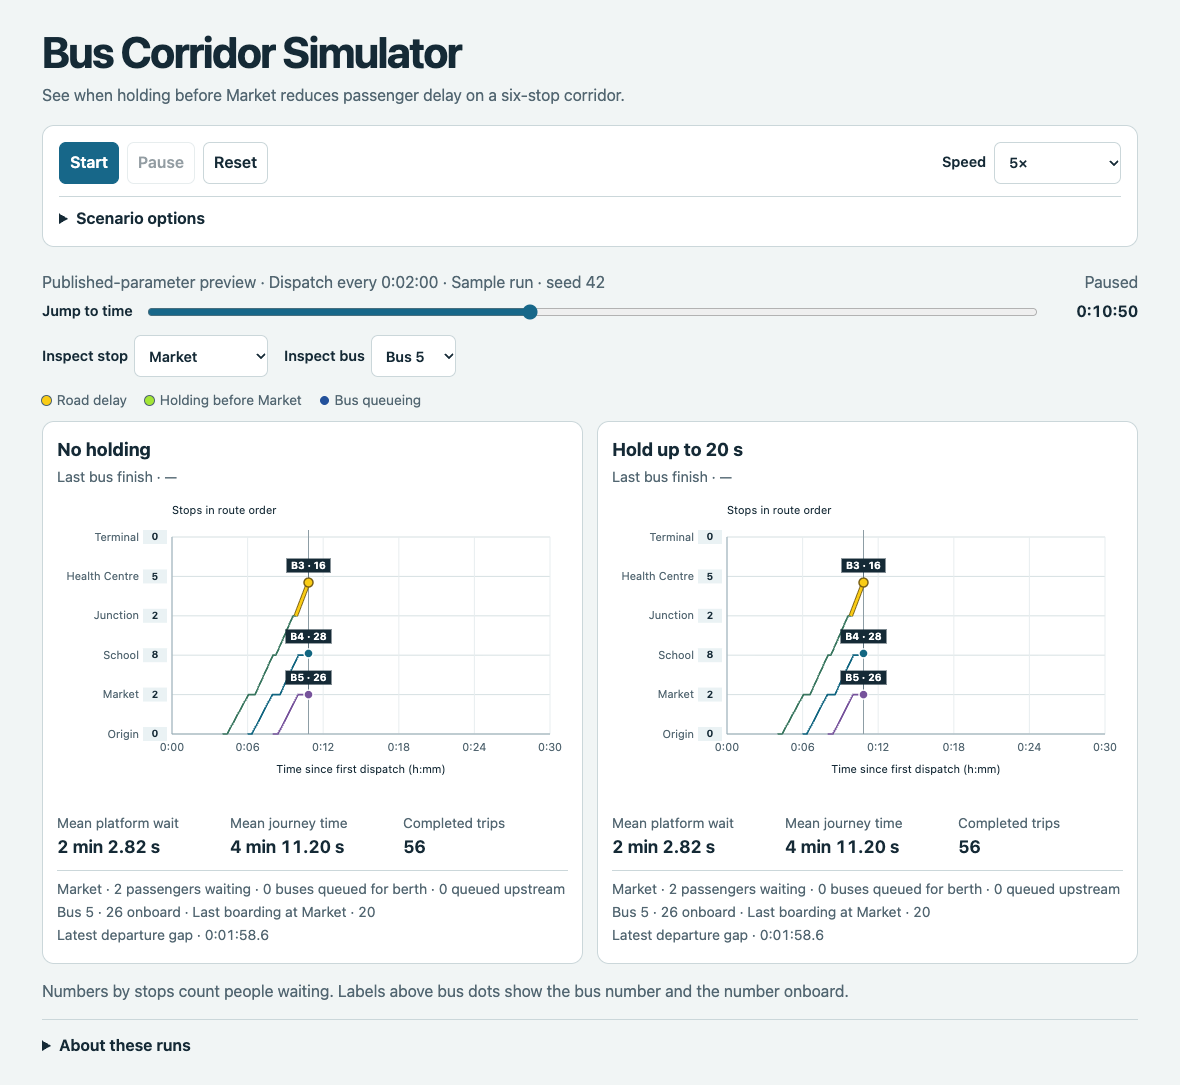
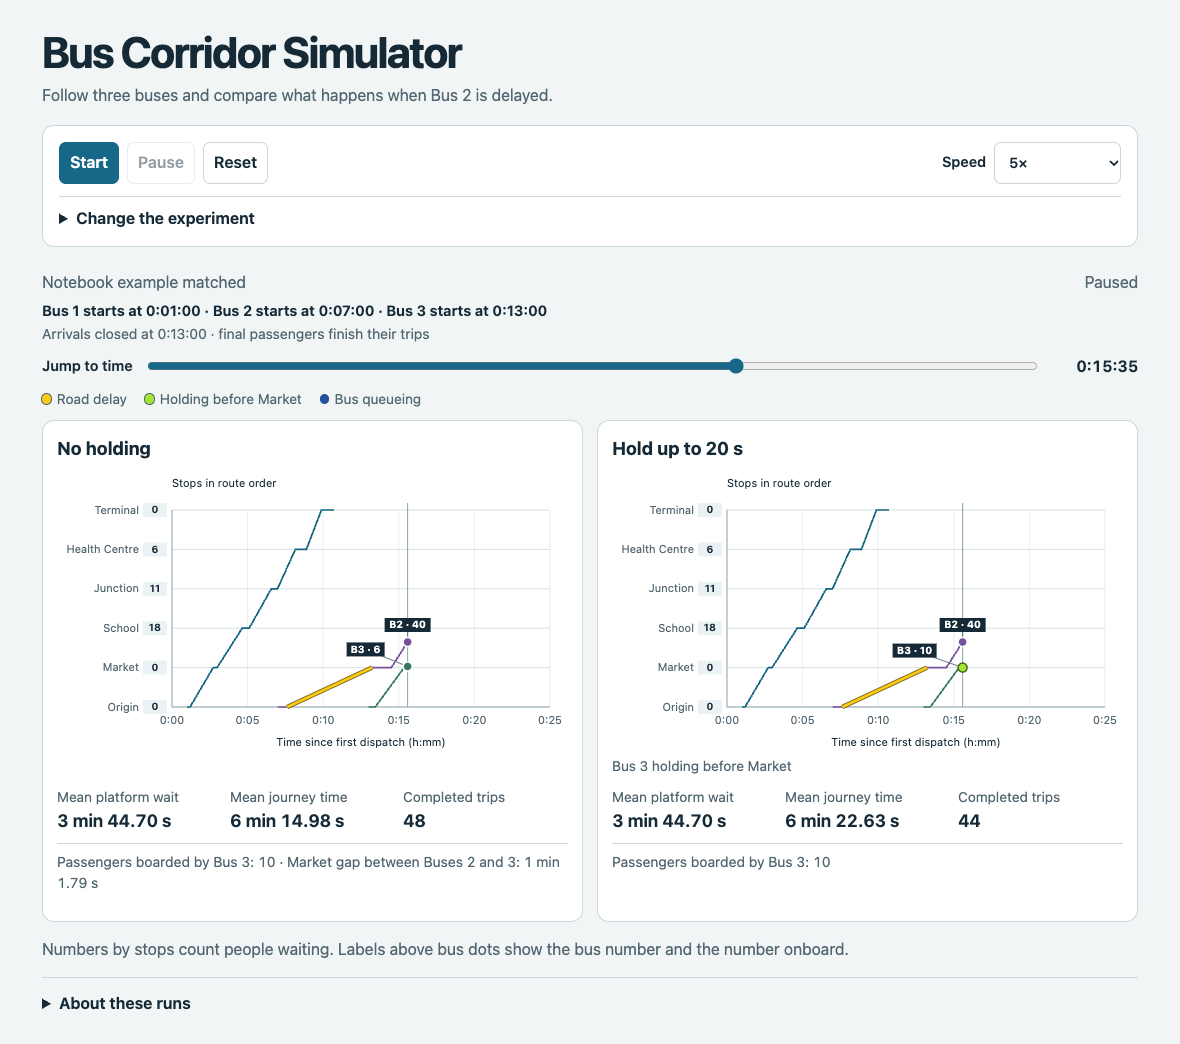
docs(demo): explain the three departures and boarding window

diff --git a/USER_GUIDE.md b/USER_GUIDE.md
@@ -1,33 +1,22 @@
 # User guide
 
-Open [the live demo](https://amri0faz31.github.io/bus-corridor-simulator/) or open `docs/index.html` locally. **Start**, **Pause** and **Reset** run both panels on one clock. **Jump to time** lets you inspect a particular event. The clock uses hours, minutes and seconds. Choose **1× · real time** to advance one simulated second per real second.
+[Open the live demo](https://amri0faz31.github.io/bus-corridor-simulator/) or open `docs/index.html` directly. The default example compares **No holding** and **Hold up to 20 s** for the same three buses and the same passengers and road times.
 
-## Compare no holding and capped holding
+## Start with the three-bus example
 
-The default preview uses the published link means, sampled traffic variability and a **2 min** initial dispatch gap. The longer gap separates early bus departures visually. Both panels share it, and the holding rule still targets a **1 min 20 s** release gap before Market. The notebook experiment and both reference replays retain **1 min 20 s** dispatches.
+- **Bus 1 starts at 0:01:00, Bus 2 at 0:07:00, and Bus 3 at 0:13:00.** A four-minute road delay affects Bus 2 on the first link. Six minutes between dispatches is the target release gap for this example.
+- Random passengers arrive from opening through the final dispatch. Arrivals then close and the buses finish serving that cohort. This lets every generated passenger complete with three departures.
+- Both policies complete **129 trips**. Bus 3 boards **10 passengers**. With holding, the Market departure gap between Buses 2 and 3 grows from **1 min 1.79 s** to **1 min 21.79 s**, while mean platform wait is **4 min 57.76 s** in both panels. Mean journey time is **10 min 18.63 s** without holding and **10 min 19.25 s** with holding.
+- Use **Start**, **Pause**, and **Reset** on a shared clock. Jump to **0:15:35** to see Bus 3 held before Market. Change the passenger demand, road delay, cap, or dispatch gap under **Change the experiment**. **Restore notebook example** returns to the verified sample.
 
-Choose **Inspect stop** and **Inspect bus**. Each panel shows platform passengers waiting, the berth queue, and the number onboard the selected bus. At Market it also shows buses queued at the control point. The latest departure gap measures the time between the last two departures at the selected stop. The chart shows buses 3–5 initially. The number beside each stop is its current passenger queue. A label such as B5 · 6 shows Bus 5 carrying six passengers. The dot stays on the trail, and a leader line connects its label when nearby buses need more room. Finished buses leave their trails on the chart.
+![Three buses shown in the matched browser replay](figures/demo-holding-preview.png)
 
-Platform wait is the mean wait of passengers who have boarded by the current time. Journey time uses completed passengers. Both averages include every bus. Counts change at event times, and boarding and alighting happen at the start of service in the model.
+## Read the chart
 
-![Baseline and capped holding with live passenger counts in the wider-gap preview](figures/demo-holding-preview.png)
+The number beside a stop counts people still waiting there. **B3 · 6** means Bus 3 has six people onboard. A sloping line represents travel between stops, while a flat line represents time at the stop or its approach. Yellow marks a road leg with a delay, green marks holding, and blue marks queueing. The summary beneath each chart reports how many people Bus 3 picked up across its whole route.
 
-## Read the time–distance chart
+The three-bus replay illustrates one event sequence. The notebook uses its longer 80-second-dispatch corridor and 30 matched replications per scenario to estimate average intervention effects with confidence intervals. The browser verifies the short example against Python within 0.0000001 seconds. [Research results](RESULTS.md) · [Notebook](notebook/bus-corridor-simulator.ipynb)
 
-A rising trail is a bus travelling between stops. A flat trail is a bus spending time at a stop or on its approach. The vertical line shows the current simulation time. Yellow highlights the road leg affected by the injected disruption or the no-passing rule. Light green marks deliberate holding before Market, and blue marks queueing. Bus positions between stops are interpolated from the simulated departure and arrival times.
+## Reproduce
 
-## Reference replays
-
-- **Published-parameter replay** uses the notebook's short reference case. All 288 passengers complete. Mean journey time is **5 min 48.20 s** without holding and **5 min 45.37 s** with holding.
-- **Original road disruption** shows the original deterministic two-policy example. At **0:07:10**, Bus 5 waits for the berth without holding and is held before Market under capped holding. Both panels complete 296 trips.
-- **Include faster boarding comparison** adds the supplementary third panel in the published scenario. It assumes 20% less time per boarding passenger at all stops.
-
-The browser checks the two references against Python for completed trips, mean platform wait, mean journey time and Bus 5's Market berth wait. The timing tolerance is 0.0000001 seconds. The live preview is one matched sample. The notebook runs 30 matched replications per scenario.
-
-![Live Market queues and Bus 5 counts in the original disruption replay](figures/demo-market.png)
-
-## Reproduce the results
-
-- Run the [notebook](notebook/bus-corridor-simulator.ipynb) to regenerate the CSVs, reference values and figures.
-- Run `node tests/check-demo.cjs` to verify the notebook replays, passenger and queue counts, and all three dispatch-gap settings.
-- Run `python tests/check-results.py` to execute the full notebook in a temporary directory and compare its numeric exports.
+Run the notebook to regenerate the plots, CSVs and browser reference. Run `node tests/check-demo.cjs` for browser-engine parity and preview checks, and `python tests/check-results.py` for a fresh notebook comparison.

diff --git a/README.md b/README.md
@@ -20,7 +20,7 @@ When buses arrive close together, they can queue for the same boarding space. Bu
 
 ## User guide
 
-Use **Start**, **Pause** and **Reset** on the shared clock. Change demand, travel-time variability or the cap, and inspect a bus or stop to see its live passenger counts. The default preview runs buses every 2 min. The reference replays and notebook use 1 min 20 s. Choose **Original road disruption** under **Scenario options** and jump to **0:07:10** to see Bus 5’s wait move upstream with holding. [Full user guide](USER_GUIDE.md)
+The browser opens a three-bus comparison with dispatches at **1, 7 and 13 minutes** and random arrivals until Bus 3 dispatches. Use **Start**, **Pause**, **Reset** and **Jump to time**. Raise or lower the passenger demand, traffic delay, hold cap or dispatch gap under **Change the experiment**. The longer notebook experiment uses matched replications and confidence intervals. [Full user guide](USER_GUIDE.md)
 
 ## Model and mathematics
 
@@ -32,7 +32,7 @@ If $g$ is the time since the preceding control release, the deliberate hold is $
 
 ![Simulation errors lie within the stated tolerances for the M/M/1 berth queue and fixed-headway passenger-wait benchmarks](figures/analytical-verification.png)
 
-The simulated mean berth wait was **60.22 s** against the M/M/1 benchmark of **60.00 s**. Mean passenger wait at a fixed 80-second headway was **39.97 s** against the expected **40.00 s**. Hand-traced fixtures check FIFO ordering, passenger completion, and equivalence at zero hold. The original stochastic metrics and both browser replays pass their regression checks. A separate fixed-headway experiment measures how Monte Carlo error changes with the number of replications. [Verification details](VERIFICATION.md)
+The simulated mean berth wait was **60.22 s** against the M/M/1 benchmark of **60.00 s**. Mean passenger wait at a fixed 80-second headway was **39.97 s** against the expected **40.00 s**. Hand-traced fixtures check FIFO ordering, passenger completion, and equivalence at zero hold. The original stochastic metrics and all three browser-engine reference fixtures pass their regression checks. A separate fixed-headway experiment measures how Monte Carlo error changes with the number of replications. [Verification details](VERIFICATION.md)
 
 ## Concepts applied
 

diff --git a/data/README.md b/data/README.md
@@ -5,6 +5,6 @@ The main scenario uses five mean link times in seconds (104, 98, 85, 71, 69) fro
 - `paired-replications.csv` has 540 rows, one per scenario, seed pair and policy. It records generated, completed and measured passenger counts and the measured means.
 - `policy-effects.csv` records each contrast by scenario, metric, comparison policy and reference policy. `difference` is comparison minus reference. `ci_low` and `ci_high` are the paired 95% confidence limits.
 - `monte-carlo-scaling.csv` records the RMSE for each replication count in the 40 s fixed-headway benchmark. Each row uses 64 batches.
-- `browser-reference.json` records Python reference values for the original two-policy road disruption, plus the inputs and reference values for a short three-policy published-parameter replay. The browser copy in `docs/reference.js` is checked for parity.
+- `browser-reference.json` records Python reference values for the original two-policy road disruption, plus the inputs and reference values for a short three-policy published-parameter replay and the default three-bus replay. The browser copy in `docs/reference.js` is checked for parity.
 
 Platform, journey and passenger-weighted component means are in seconds per passenger. Market berth and control means are in seconds per bus. Queue share is a fraction. Each boarding-stop and upstream queue-length metric is the average number of waiting buses over the observation window. Departure-headway standard deviations are in seconds. The notebook regenerates all four exports.
